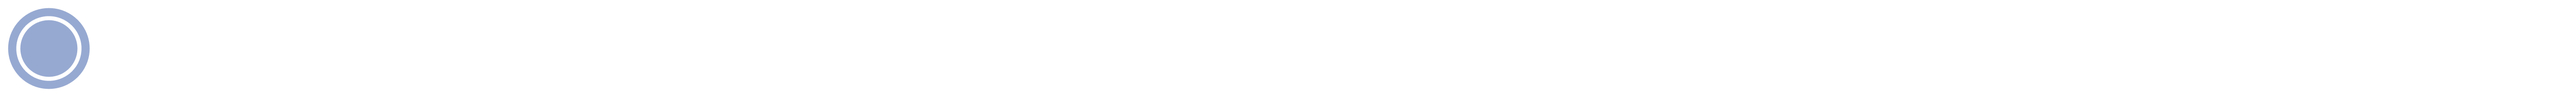
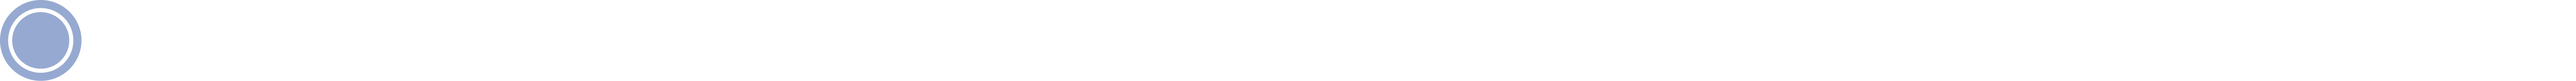
feat : progressbar 10개로 수정

Changed region(s): [[0.0, 0.0, 0.0623, 1.0]]

diff --git a/src/components/Progressbar/Progressbar.module.css b/src/components/Progressbar/Progressbar.module.css
@@ -8,6 +8,7 @@
   align-items: center;
   justify-content: center;
 }
+
 /* .name{
     width:70vw;
     height:20vh;
@@ -22,6 +23,7 @@
   background-position: center center;
   /* border:none; */
 }
+
 .progress2 {
   width: 70vw;
   height: 20vh;
@@ -30,6 +32,7 @@
   background-size: contain;
   background-position: center center;
 }
+
 .progress3 {
   width: 70vw;
   height: 20vh;
@@ -38,6 +41,7 @@
   background-size: contain;
   background-position: center center;
 }
+
 .progress4 {
   width: 70vw;
   height: 20vh;
@@ -46,6 +50,7 @@
   background-size: contain;
   background-position: center center;
 }
+
 .progress5 {
   width: 70vw;
   height: 20vh;
@@ -54,6 +59,7 @@
   background-size: contain;
   background-position: center center;
 }
+
 .progress6 {
   width: 70vw;
   height: 20vh;
@@ -62,6 +68,7 @@
   background-size: contain;
   background-position: center center;
 }
+
 .progress7 {
   width: 70vw;
   height: 20vh;
@@ -70,10 +77,29 @@
   background-size: contain;
   background-position: center center;
 }
+
 .progress8 {
   width: 70vw;
   height: 20vh;
   background-image: url("../../img/progress8.png");
+  background-repeat: no-repeat;
+  background-size: contain;
+  background-position: center center;
+}
+
+.progress9 {
+  width: 70vw;
+  height: 20vh;
+  background-image: url("../../img/progress9.png");
+  background-repeat: no-repeat;
+  background-size: contain;
+  background-position: center center;
+}
+
+.progress10 {
+  width: 70vw;
+  height: 20vh;
+  background-image: url("../../img/progress10.png");
   background-repeat: no-repeat;
   background-size: contain;
   background-position: center center;
@@ -90,6 +116,7 @@
     align-items: center;
     justify-content: center;
   }
+
   .progress1 {
     width: 70vw;
     height: 20vh;
@@ -98,6 +125,7 @@
     background-size: contain;
     background-position: center;
   }
+
   .progress2 {
     width: 70vw;
     height: 20vh;
@@ -106,6 +134,7 @@
     background-size: contain;
     background-position: center center;
   }
+
   .progress3 {
     width: 70vw;
     height: 20vh;
@@ -114,6 +143,7 @@
     background-size: contain;
     background-position: center center;
   }
+
   .progress4 {
     width: 70vw;
     height: 20vh;
@@ -122,6 +152,7 @@
     background-size: contain;
     background-position: center center;
   }
+
   .progress5 {
     width: 70vw;
     height: 20vh;
@@ -130,6 +161,7 @@
     background-size: contain;
     background-position: center center;
   }
+
   .progress6 {
     width: 70vw;
     height: 20vh;
@@ -138,6 +170,7 @@
     background-size: contain;
     background-position: center center;
   }
+
   .progress7 {
     width: 70vw;
     height: 20vh;
@@ -146,10 +179,29 @@
     background-size: contain;
     background-position: center center;
   }
+
   .progress8 {
     width: 70vw;
     height: 20vh;
     background-image: url("../../img/progress8.png");
+    background-repeat: no-repeat;
+    background-size: contain;
+    background-position: center center;
+  }
+
+  .progress9 {
+    width: 70vw;
+    height: 20vh;
+    background-image: url("../../img/progress9.png");
+    background-repeat: no-repeat;
+    background-size: contain;
+    background-position: center center;
+  }
+
+  .progress10 {
+    width: 70vw;
+    height: 20vh;
+    background-image: url("../../img/progress10.png");
     background-repeat: no-repeat;
     background-size: contain;
     background-position: center center;

diff --git a/src/components/Progressbar/Progressbar.js b/src/components/Progressbar/Progressbar.js
@@ -6,18 +6,23 @@ const Progressbar = (prop) => {
     prop.page + 1 === 1
       ? style.progress1
       : prop.page + 1 === 2
-      ? style.progress2
-      : prop.page + 1 === 3
-      ? style.progress3
-      : prop.page + 1 === 4
-      ? style.progress4
-      : prop.page + 1 === 5
-      ? style.progress5
-      : prop.page + 1 === 6
-      ? style.progress6
-      : prop.page + 1 === 7
-      ? style.progress7
-      : style.progress8;
+        ? style.progress2
+        : prop.page + 1 === 3
+          ? style.progress3
+          : prop.page + 1 === 4
+            ? style.progress4
+            : prop.page + 1 === 5
+              ? style.progress5
+              : prop.page + 1 === 6
+                ? style.progress6
+                : prop.page + 1 === 7
+                  ? style.progress7
+                  : prop.page + 1 === 8
+                    ? style.progress8
+                    : prop.page + 1 === 9
+                      ? style.progress9
+                      : style.progress10;
+  // console.log("page= " + imgName);
   return (
     <div className={style.container}>
       <div className={imgName}></div>

diff --git a/src/components/QuestionPage/QuestionPage.js b/src/components/QuestionPage/QuestionPage.js
@@ -80,7 +80,7 @@ export default function QuestionPage() {
     answers.pop();
     questions.pop();
   };
-  ////
+
   return (
     <div className={style.backImg}>
       <div className={style.topContainer}>
